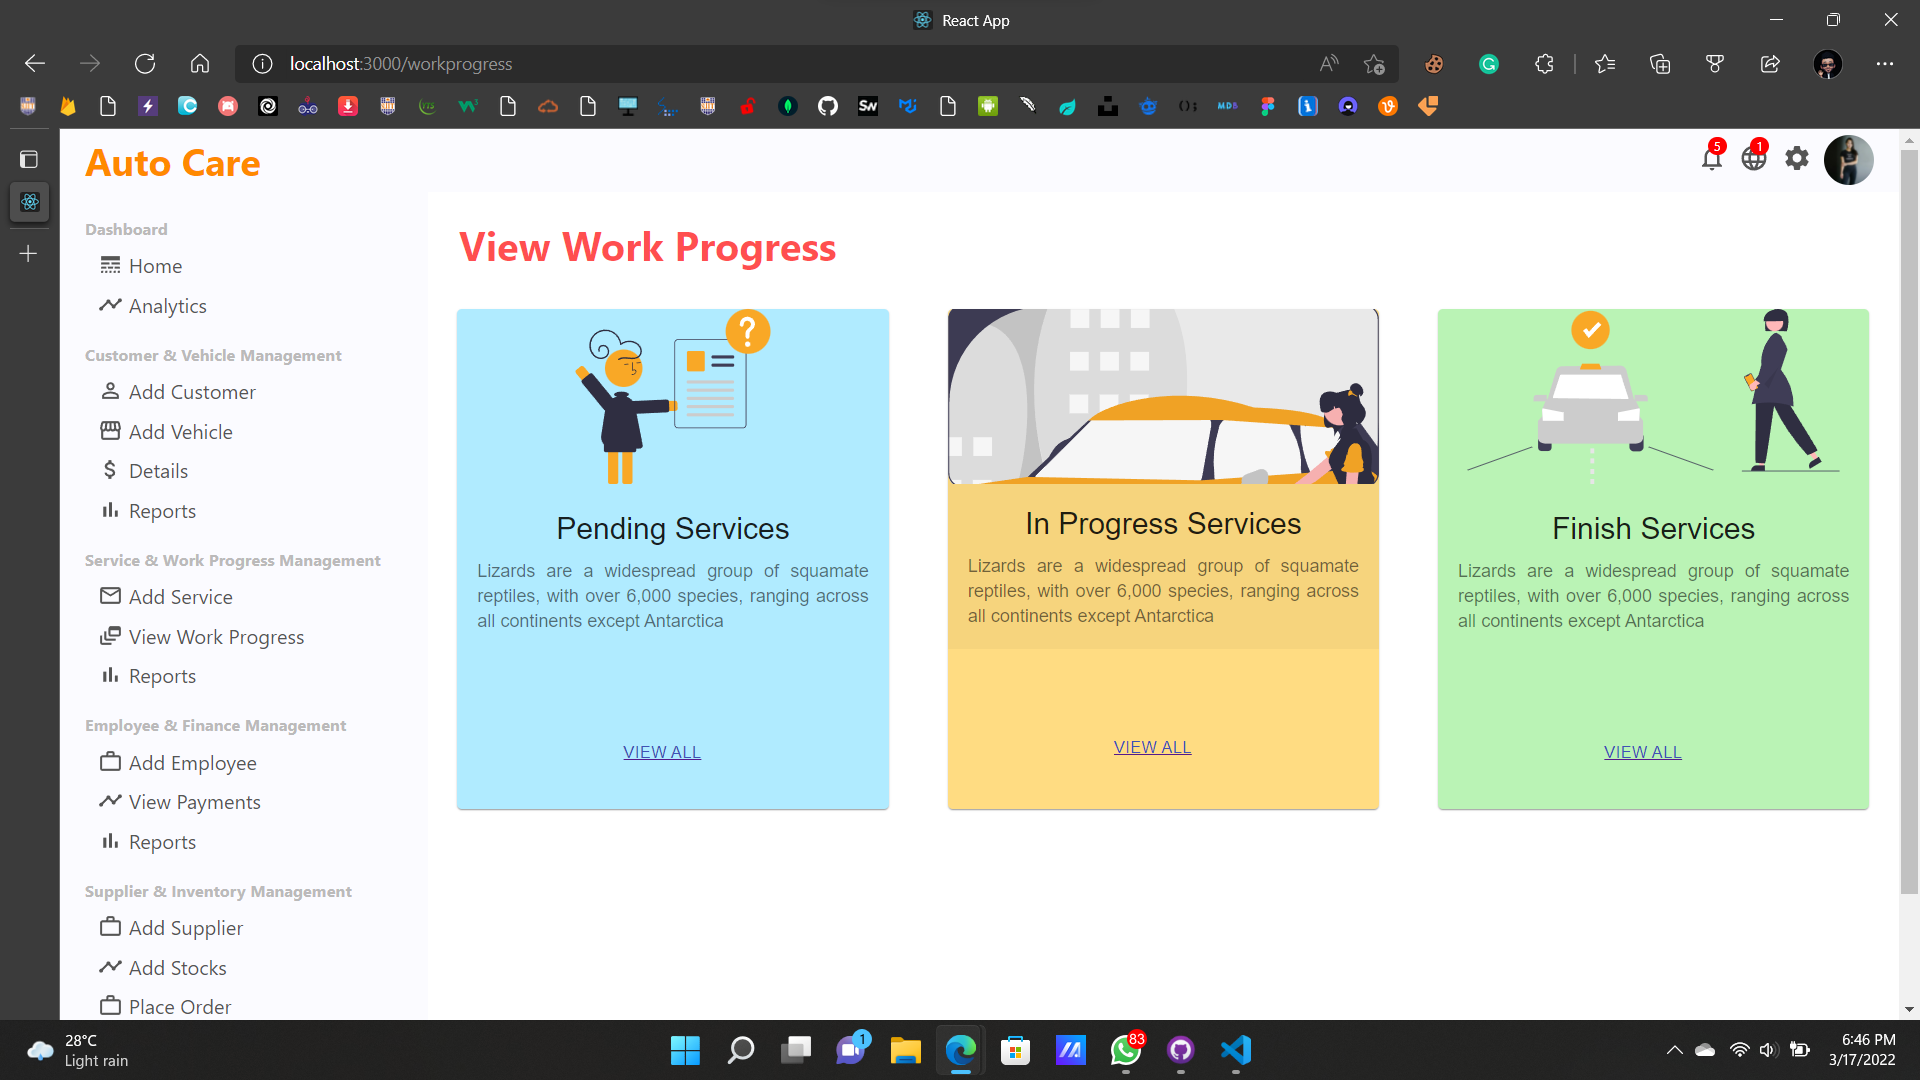
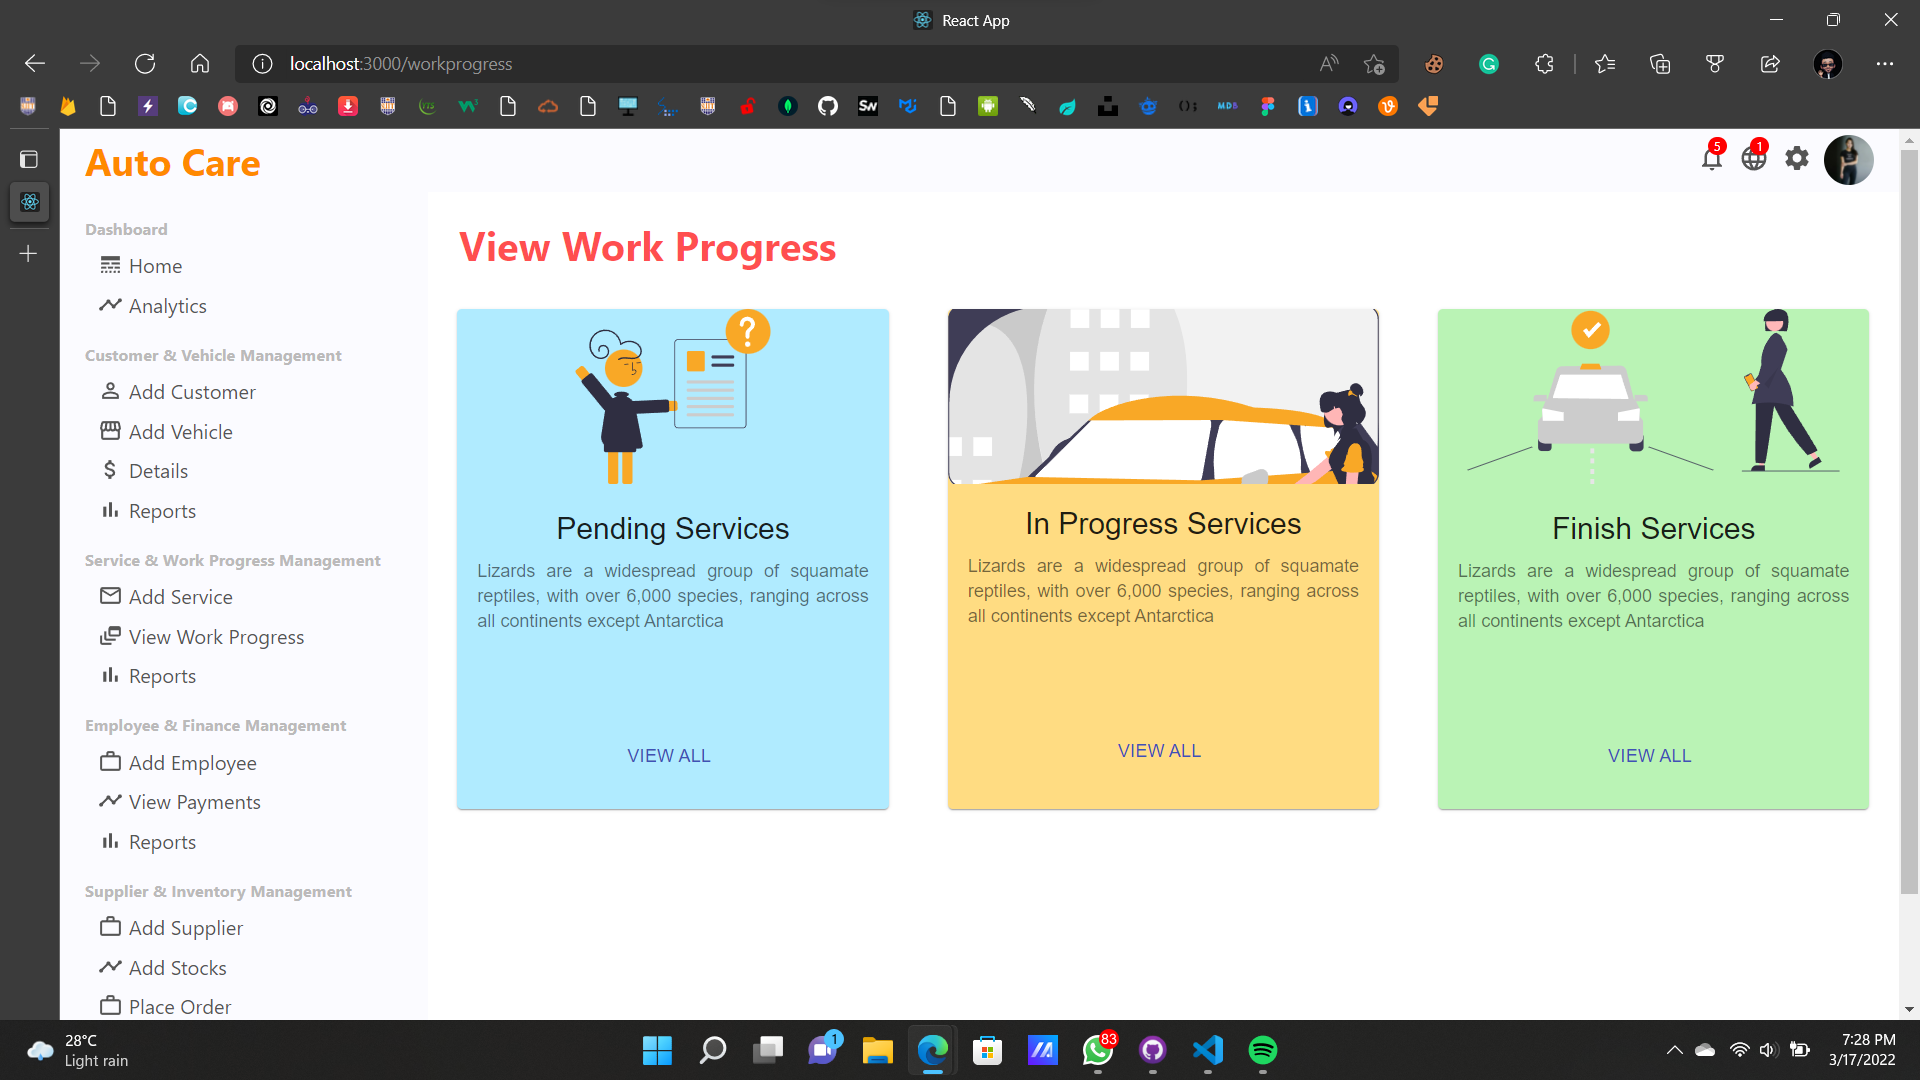
ui and bug fix

diff --git a/admin/src/pages/pending page/Pendingpage.js b/admin/src/pages/pending page/Pendingpage.js
@@ -4,6 +4,7 @@ import axios from 'axios';
 import { Link } from 'react-router-dom';
 import "./Pendingpage.css"
 import Button from '@material-ui/core/Button';
+import { green, purple } from '@material-ui/core/colors';
 
 export default function Pendingpage({search,setSearch}){
 
@@ -42,20 +43,20 @@ export default function Pendingpage({search,setSearch}){
             <td className="table-clo4">{servicedetails.cemail}</td>
             <td className="table-clo5">{servicedetails.stype}</td>
             <td className="table-clo6">{servicedetails.cnumber}</td>
-            <td><Link to={`/workprogress/${servicedetails._id}`}>
-                <Button size="small" color="primary" variant="contained" >Edit / Delete Service</Button>
+            <td className="table-clo7"><Link className='link' to={`/workprogress/${servicedetails._id}`}>
+                <Button size="small" color="primary" variant="outlined" >Edit / Delete</Button>
                 </Link>
             </td>
             {/* <td>
               <Buttonid cid={servicedetails._id}/>
             </td> */}
-            <td><Link to={`/workprogress/startservice/${servicedetails._id}`}>
-                <Button  size="small" color="secondary" variant="contained">Start Service</Button>
+            <td className="table-clo8"><Link className='link' to={`/workprogress/startservice/${servicedetails._id}`}>
+                <Button  size="small" color="primary" variant="contained">Start Service</Button>
                 </Link>
             </td>
           </tr>
         );
-        
+
       };
 
     return(

diff --git a/admin/src/pages/workprogess/Workprogress.js b/admin/src/pages/workprogess/Workprogress.js
@@ -56,8 +56,8 @@ const useStyles = makeStyles({
           </CardContent>
         </CardActionArea>
         <CardActions className='btn'>
-        <Link to={`/workprogress/pendingservices`}>
-          <Button  size="small" color="primary" >
+        <Link className='link' to={`/workprogress/pendingservices`}>
+          <Button color="primary" >
             View All
           </Button>
           </Link>
@@ -83,8 +83,8 @@ const useStyles = makeStyles({
           </CardContent>
         </CardActionArea>
         <CardActions className='btn'>
-        <Link to={`/workprogress/inprogressservices`}>
-          <Button  size="small" color="primary" >
+        <Link className='link' to={`/workprogress/inprogressservices`}>
+          <Button color="primary" >
             View All
           </Button>
           </Link>
@@ -110,8 +110,8 @@ const useStyles = makeStyles({
           </CardContent>
         </CardActionArea>
         <CardActions className='btn'>
-        <Link to={`/workprogress/finishservices`}>
-          <Button  size="small" color="primary" >
+        <Link className='link' to={`/workprogress/finishservices`}>
+          <Button color="primary" >
             View All
           </Button>
           </Link>

diff --git a/admin/src/pages/pending page/Pendingpage.css b/admin/src/pages/pending page/Pendingpage.css
@@ -28,6 +28,12 @@
 .table-clo6{
     text-align: center;
 }
+.table-clo7{
+    width: 120px;
+}
+.table-clo8{
+    width: 127px;
+}
 .searchbox{
     padding: 10px;
     margin-left: 872px;
@@ -35,4 +41,7 @@
     border: 2px solid#3b3db4;
     border-radius: 20px;
     width: 300px;
+  }
+.link{
+    text-decoration: none;
   }

diff --git a/admin/src/pages/workprogess/Workprogress.css b/admin/src/pages/workprogess/Workprogress.css
@@ -27,3 +27,6 @@
     margin-left: 25px;
     color: rgba(255, 0, 0, 0.692);
 }
+.link{
+    text-decoration: none;
+  }
